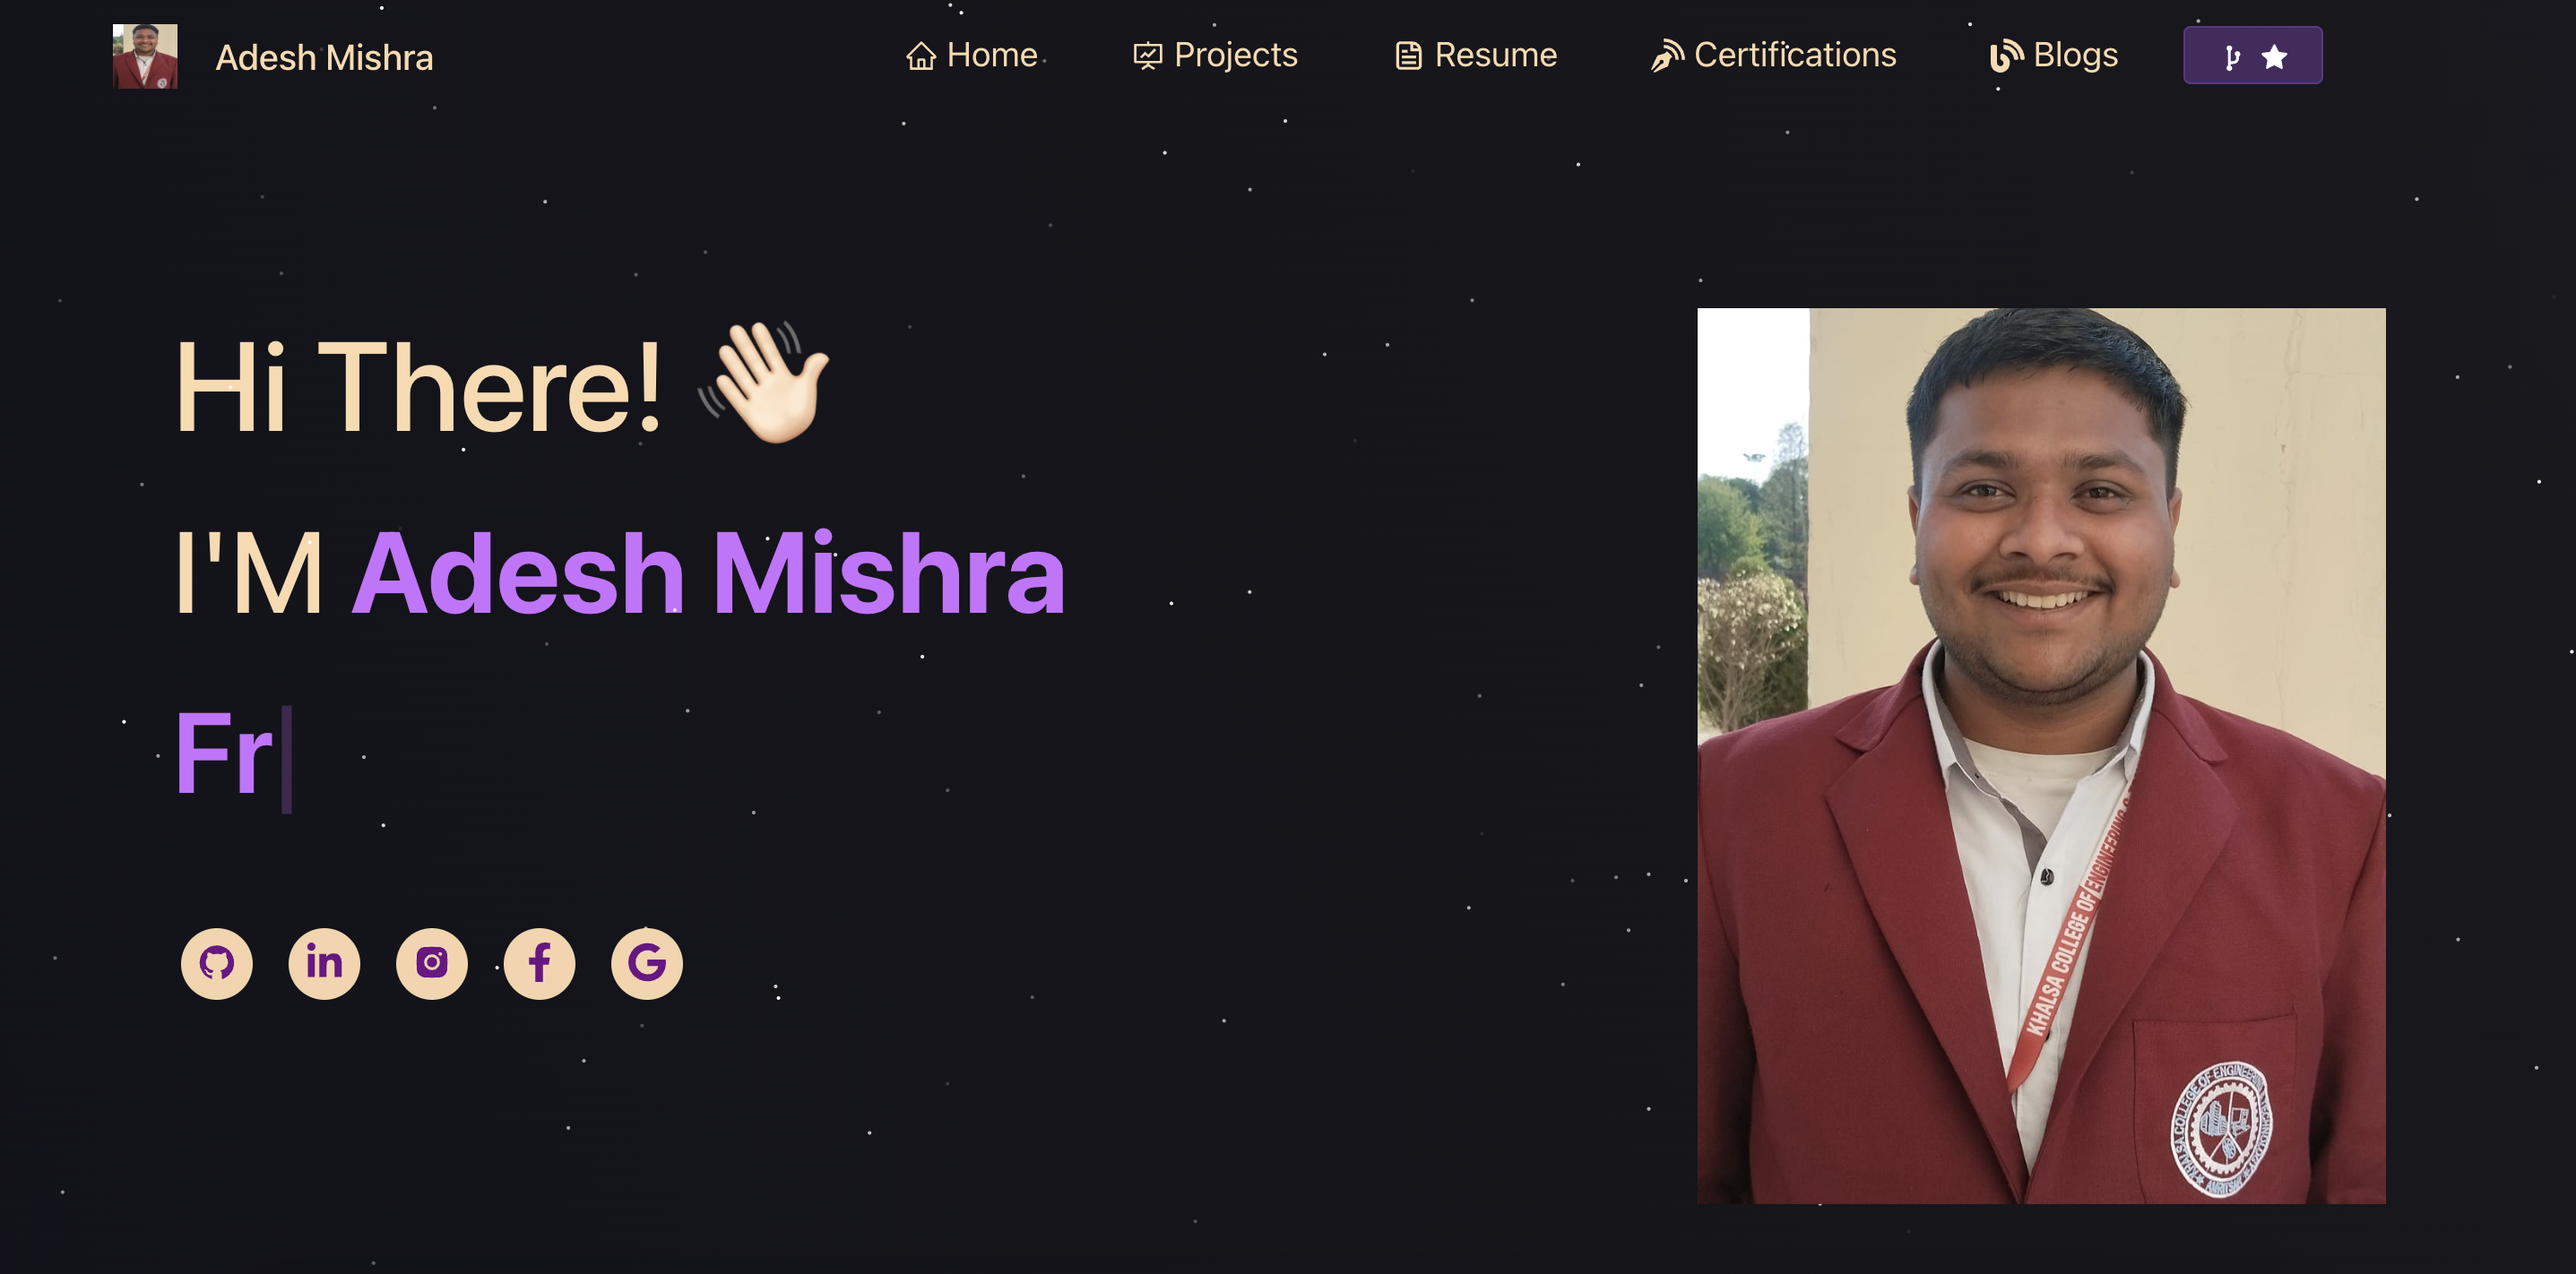
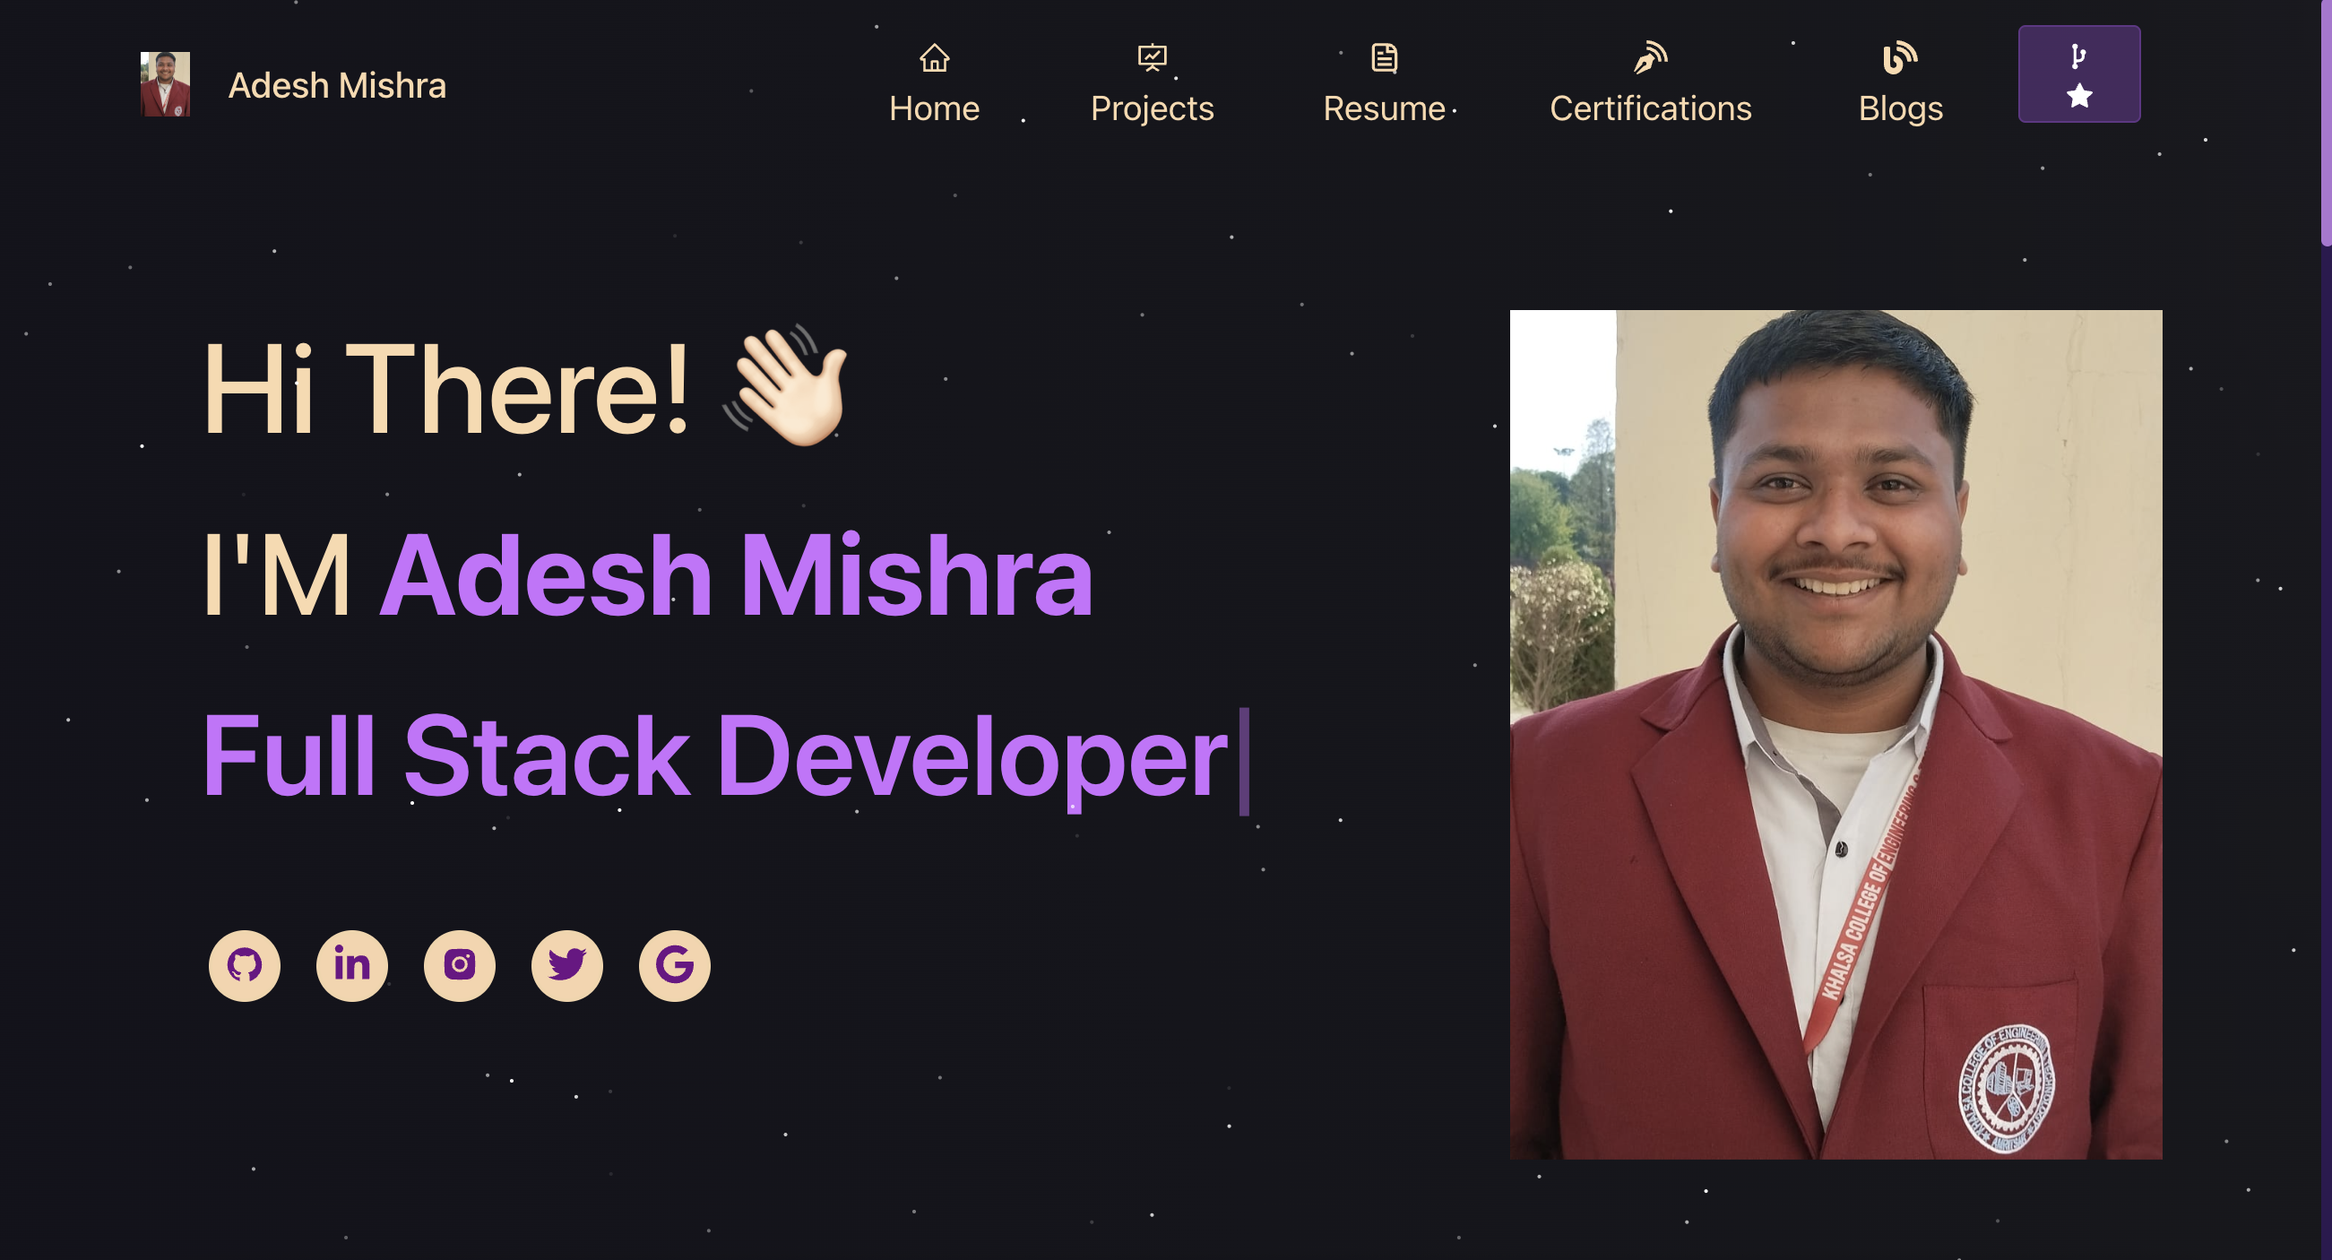
Add meta tags and OG image

diff --git a/src/pages/home_page/Typing.js b/src/pages/home_page/Typing.js
@@ -7,7 +7,7 @@ function Typing() {
             options={{
                 strings: [
                     "Developer",
-                    "Software Engineer",
+                    "Full Stack Developer",
                     "Frontend Developer",
                     "Backend Developer",
                 ],
